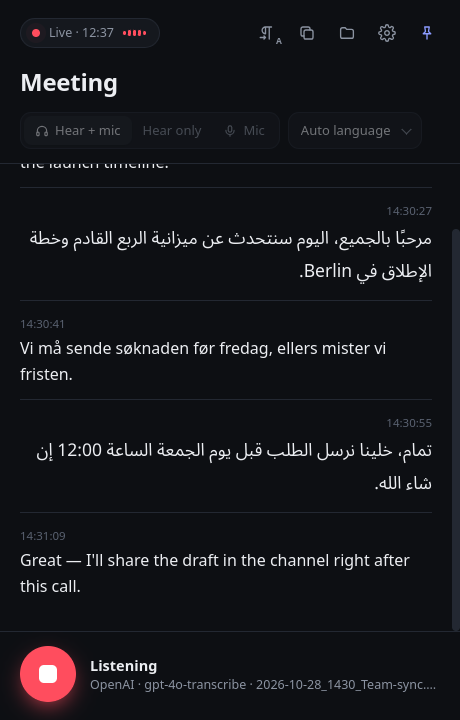
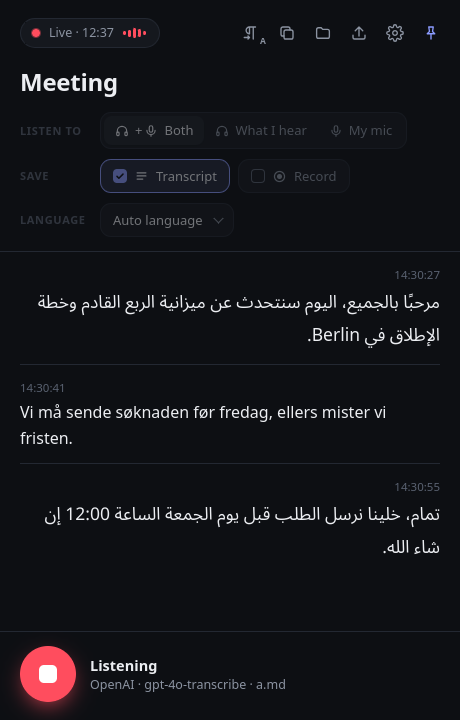
README: new screenshots (live, record, file transcription, settings)

diff --git a/README.md b/README.md
@@ -8,13 +8,21 @@
 Bring your own OpenAI / Groq / Mistral key, use Hermes Agent, or run fully offline.</p>
 
 <p align="center">
-  <img src="docs/screenshot-live.png" width="380" alt="Live transcript with Arabic, English and Norwegian lines">
-  &nbsp;&nbsp;
-  <img src="docs/screenshot-settings.png" width="380" alt="Choosing a transcription provider">
+  <img src="docs/screenshot-live.png" width="260" alt="Live transcript with Arabic, English and Norwegian lines">
+  &nbsp;
+  <img src="docs/screenshot-options.png" width="260" alt="Transcribing and recording a meeting">
+  &nbsp;
+  <img src="docs/screenshot-file.png" width="260" alt="Transcribing an audio file">
 </p>
 
-<p align="center"><sub>Left: a live session — Arabic lines flow right-to-left, English and Norwegian left-to-right.
-Right: pick a provider and paste your key.</sub></p>
+<p align="center"><sub><b>Live transcription</b> — Arabic right-to-left, English and Norwegian left-to-right ·
+<b>Transcript + Record</b> — the red ● REC badge shows the sound is being saved ·
+<b>Audio files</b> — drop a phone voice memo to transcribe it</sub></p>
+
+<p align="center">
+  <img src="docs/screenshot-settings.png" width="260" alt="Choosing a transcription provider"><br>
+  <sub><b>Settings</b> — pick a provider and paste your own API key</sub>
+</p>
 
 <p align="center">🆕 <b>Lisanote 2.0</b>: record the sound and transcribe audio files — <a href="docs/WHATS-NEW.md">see what's new</a></p>
 
